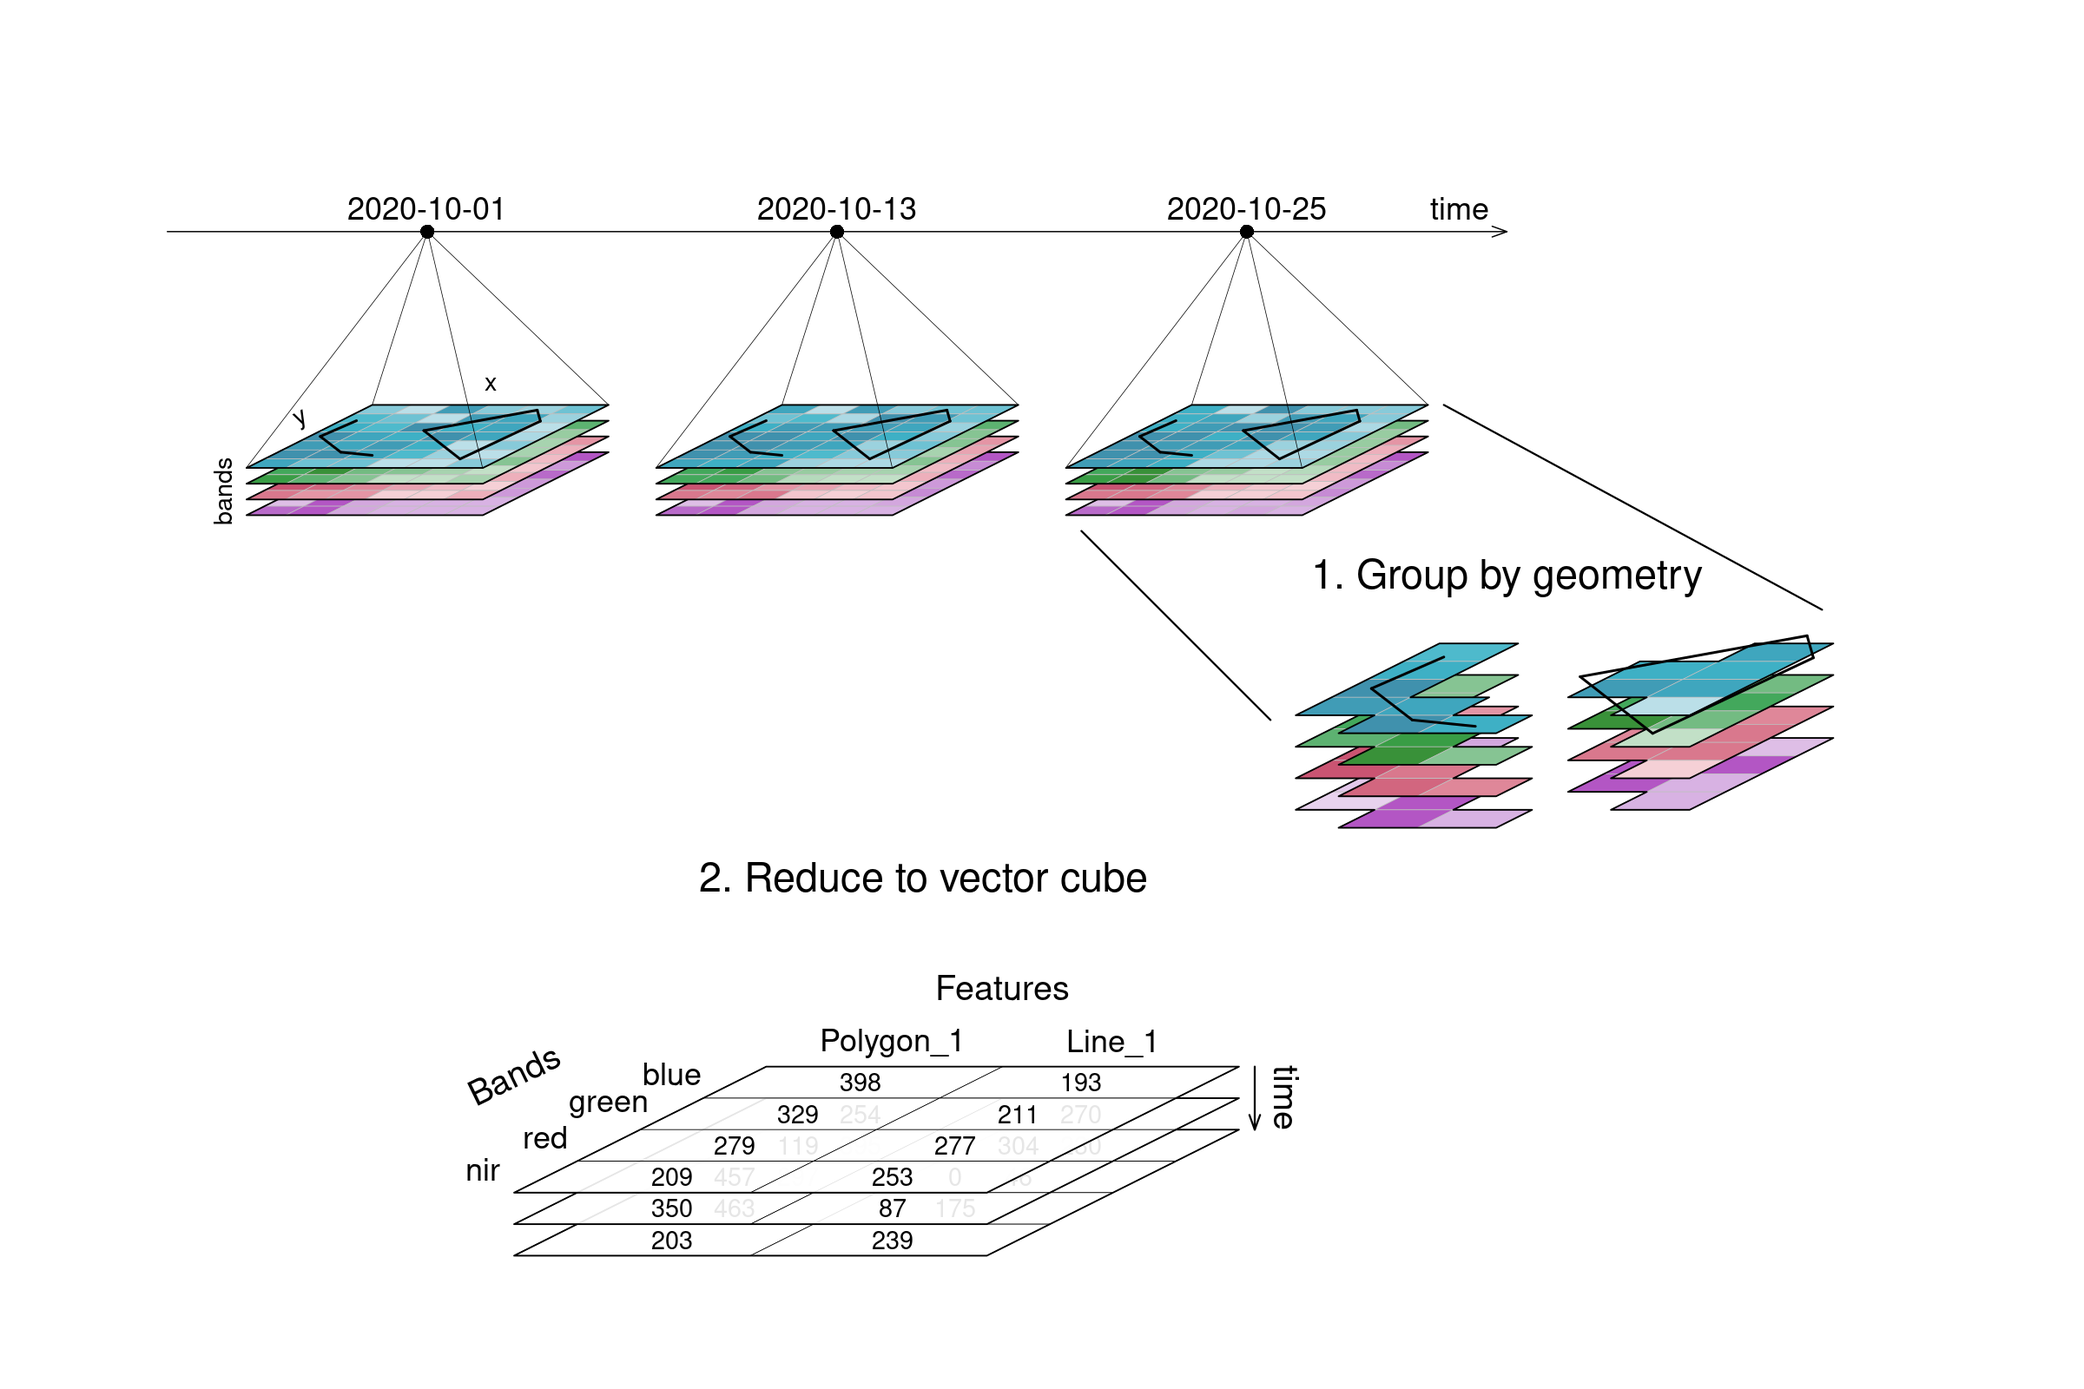
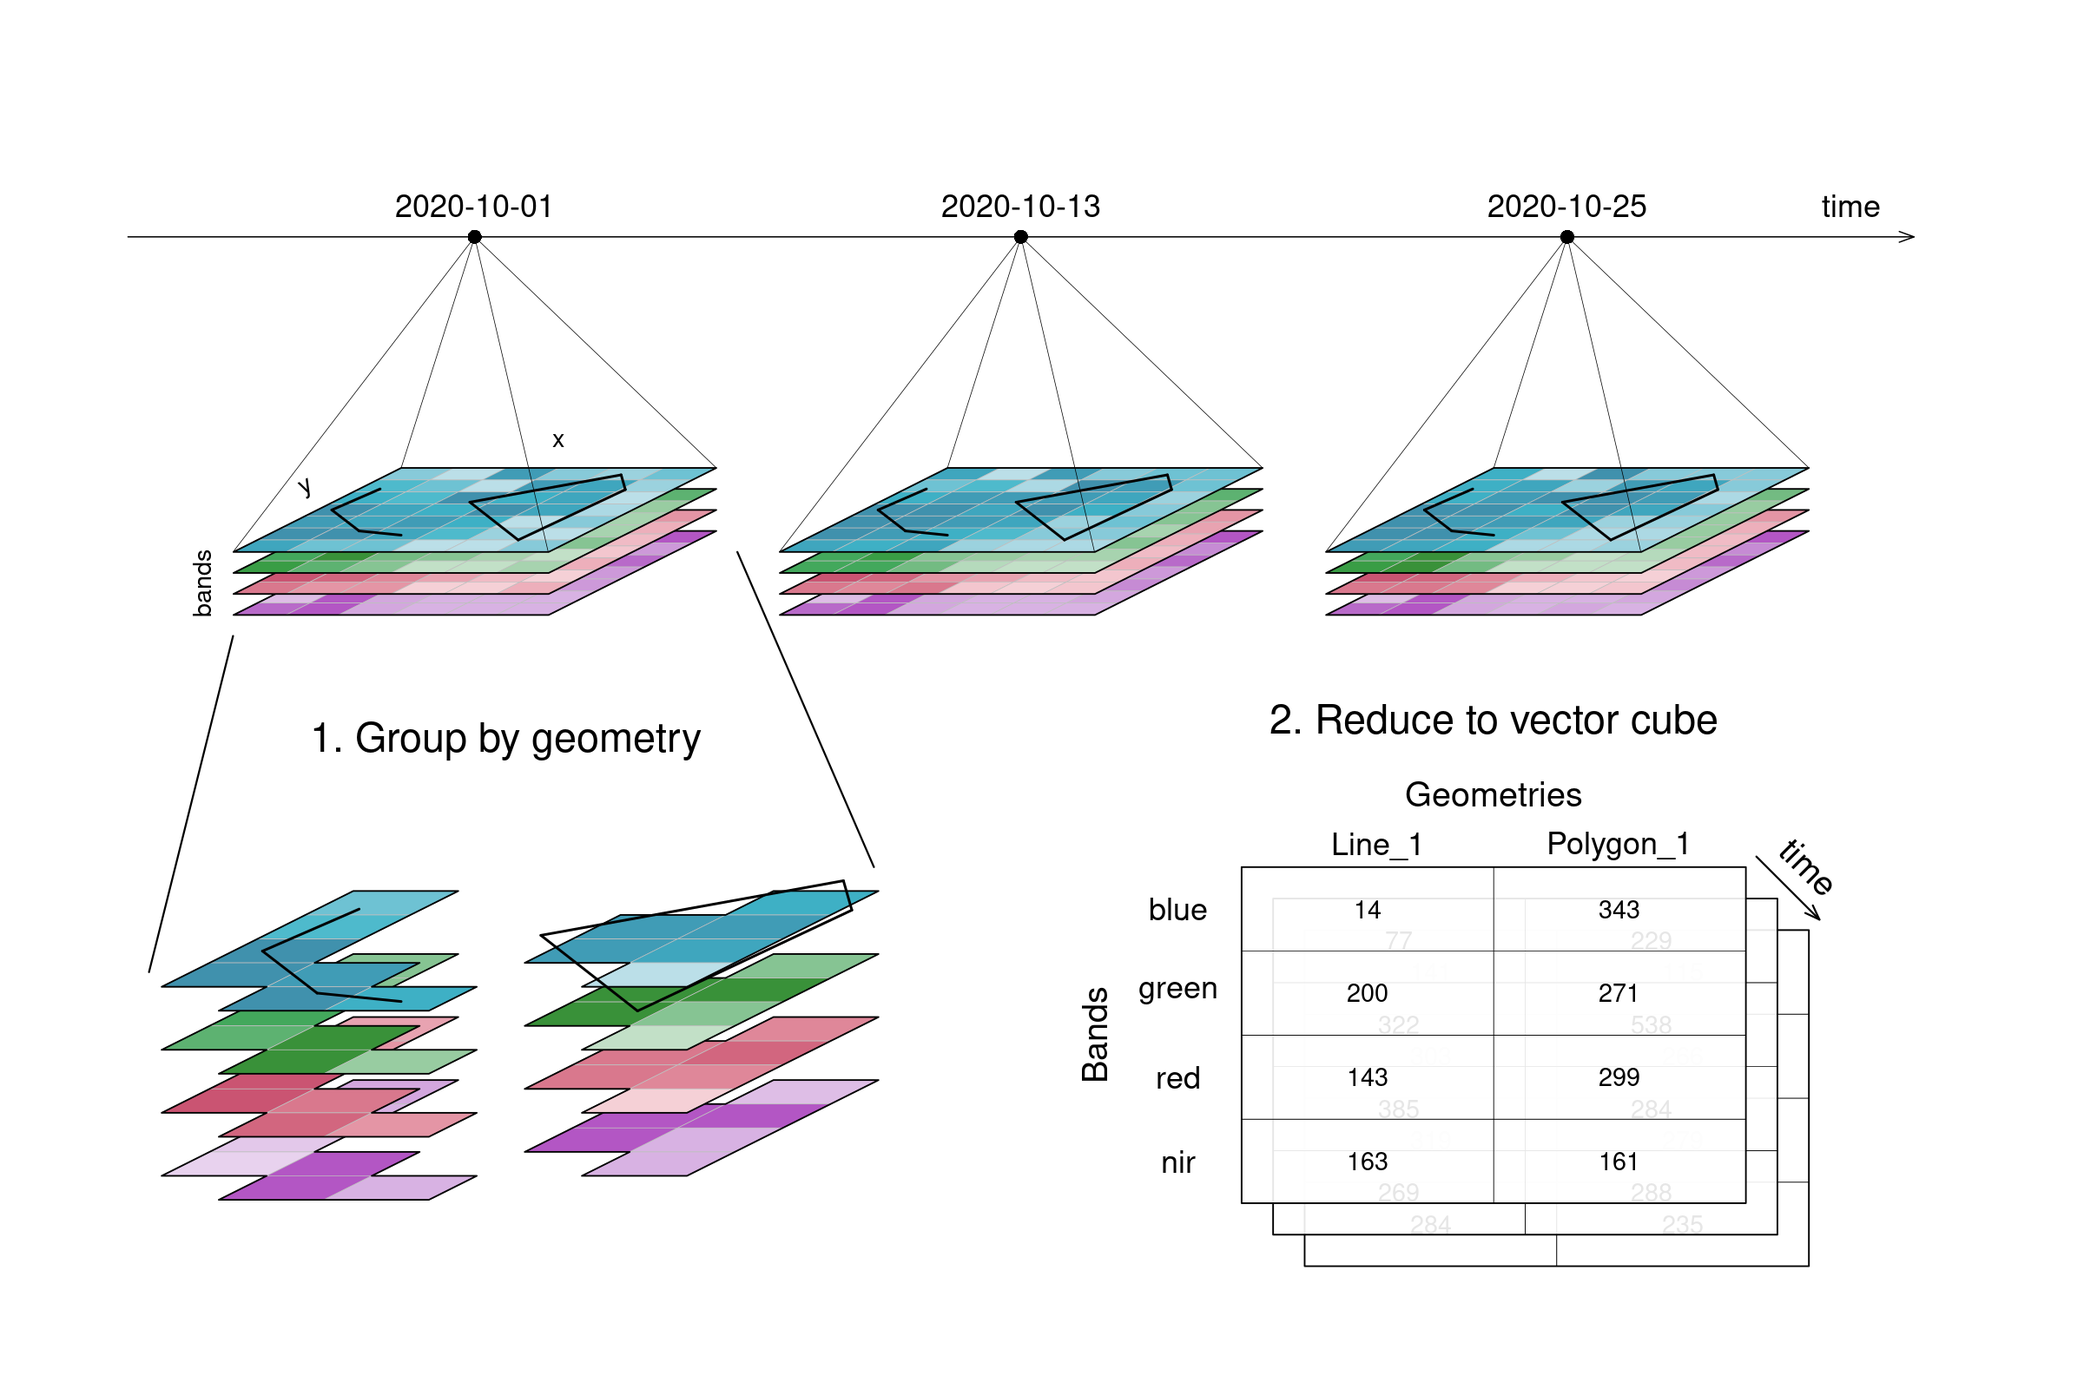
review, remodel agg_space

diff --git a/documentation/1.0/datacubes.md b/documentation/1.0/datacubes.md
@@ -11,24 +11,24 @@ TODOs / Questions:
 
 ## What are Datacubes?
 
-Datacubes are multidimensional arrays with one or more spatial or temporal dimension(s). Most importantly, they are the way in which data is represented in OpenEO. They provide a nice and tidy interface for spatiotemproal data and the operations you may want to execute on it. As they are arrays, it might be easiest to look at raster data as an example, even though datacubes can hold vector data as well: Then, the dimensions would have a different meaning. Instead of `x` and `y` they could e.g. represent stations with a number of sensors. Our example data however consists of a 6x7 raster with 4 bands [`red`, `green`, `blue`, `near-infrared`] and 3 time steps [`2020-10-01`, `2020-10-13`, `2020-10-25`], displayed here in an orderly, time series like manner:
+Datacubes are multidimensional arrays with one or more spatial or temporal dimension(s). They are the way in which data is represented in OpenEO. They provide a nice and tidy interface for spatiotemproal data and the operations you may want to execute on it. As they are arrays, it might be easiest to look at raster data as an example, even though datacubes can hold vector data as well: In that case, the x and y dimensions typical for raster data would be exchanged for other dimensions, like stations with a number of sensors. Our example data however consists of a 6x7 raster with 4 bands [`blue`, `green`, `red`, `near-infrared`] and 3 timesteps [`2020-10-01`, `2020-10-13`, `2020-10-25`], displayed here in an orderly, time series like manner:
 
 <figure>
     <img src="./datacubes/dc_timeseries.png" alt="Datacube timeseries">
-    <figcaption>Example datacube</figcaption>
+    <figcaption>An example datacube with x, y, bands and time dimension.</figcaption>
 </figure>
 
-It is important to understand that datacubes are designed to make things easier for us, and are not literally a cube, meaning that the above plot is just as good a way to represent the dimensionality than any other. That is why we can display the data how we want and play around a bit with the dimensions, including this view:
+It is important to understand that datacubes are designed to make things easier for us, and are not literally a cube, meaning that the above plot is just as good a way to represent the dimensionality than any other. That is why we can display the dimensions how we want and switch them around a bit, including the view below. Here, dimension labels are shown instead of names:
 
 <figure>
     <img src="./datacubes/dc_flat.png" alt="Datacube timeseries">
-    <figcaption>This is the 'raw' data collection that is included in our example datacube. The grayscale values of the imagery are colored for understandability.</figcaption>
+    <figcaption>This is the 'raw' data collection that is our example datacube. The grayscale images are colored for understandability.</figcaption>
 </figure>
 
 ## Dimensions
-A dimension refers to a certain extent of a datacube. There are the obvious spatial dimensions x and y, and also the temporal dimension t. Furthermore there is the bands dimension, extending into the realm of _what_ is contained in the datacube.
+A dimension refers to a certain extent of a datacube. There are the obvious spatial dimensions x and y, and also the temporal dimension t. Furthermore there is the bands dimension, extending into the realm of _what kind of information_ is contained in the datacube.
 
-There are multiple additional properties stored for each dimension:
+There are multiple properties stored for each dimension:
 
 * name
 * axis / number
@@ -41,7 +41,7 @@ Here is an overview of the dimensions contained in our example datacube above:
 
 | # | dimension name | dimension labels | resolution |
 |---|----------------|------------------| ---------- |
-| 1 | x              | 466380, 466580, 466780, 466980, 467180, 467380, | 10m |
+| 1 | x              | 466380, 466580, 466780, 466980, 467180, 467380 | 10m |
 | 2 | y              | 7167130, 7166930, 7166730, 7166530, 7166330, 7166130, 7165930 | 10m |
 | 3 | bands          | `blue`, `green`, `red`, `nir` | 4 bands |
 | 4 | time           | `2020-10-01`, `2020-10-13`, `2020-10-25` | 12 days |
@@ -54,87 +54,89 @@ The resolution of a dimension gives information about what interval lies between
 
 ## Functions on Datacubes
 
+In the following part, the basic processes for manipulating datacubes are introduced.
+
 ### Filter
 
 When filtering data, only the data within the filter interval is returned. That can be a time interval, coordinates or specific bands. The datacube is then smaller, according to the selected data.
 
-In the image, the example datacube can be seen in top with labeled dimansions. The filtering techniques are displayed separately below. First, the Datacube is filtered temporally, e.g. with the interval `["2020-10-15", "2020-10-27"]`. The result is a cube with only the rasters for the timestep that lies within that interval (`"2020-10-25"`) and unchanged bands and spatial dimensions. Consecutively, the original cube is filtered for a specific band `[nir]` and a specific region (TODO).
+In the image, the example datacube can be seen at the top with labeled dimensions. The filtering techniques are displayed separately below. First, the Datacube is filtered temporally with the interval `["2020-10-15", "2020-10-27"]`. The result is a cube with only the rasters for the timestep that lies within that interval (`"2020-10-25"`) and unchanged bands and spatial dimensions. Consecutively, the original cube is filtered for a specific band `[nir]` and a specific region (`[Polygon(...)]`).
 
 <figure>
     <img src="./datacubes/dc_filter.png" alt="Datacube timeseries">
-    <figcaption>Filtering a sample datacube. The input datacube carries all dimension labels.</figcaption>
+    <figcaption>Filtering the sample datacube. It is displayed at the top with dimensions labels. Filtered results are shown at the bottom.</figcaption>
 </figure>
 
 ### Apply
 
-The `apply*()` functions employs a process on the datacube, calculating new pixel values for each pixel, based on n other pixels.
+The `apply*()` functions employs a process on the datacube that calculates new pixel values for each pixel, based on `n` other pixels.
 
-For the case n = 1 this is called an unary function and means that only the pixel itself is considered when calculating the new pixel value. A prominent example is the `abs()` function, calculating the absolute value of the input pixel value. 
+For the case `n = 1` this is called an unary function and means that only the pixel itself is considered when calculating the new pixel value. A prominent example is the `abs()` function, calculating the absolute value of the input pixel value. 
 
 <figure>
     <img src="./datacubes/dc_apply_unary.png" alt="Datacube timeseries">
-    <figcaption>Applying a unary process. Only one band is shown for simplicity.</figcaption>
+    <figcaption>Applying an unary process. Only the pixel itself is considered for calculating the new pixel value.</figcaption>
 </figure>
 
-If n is larger than 1, the function is called n-ary. In practice, this means that the pixel neighbourhood is taken into account to calculate the new pixel value. Such nieghbourhoods can be of temporal and/or spatial nature. A temporal (e.g. smoothing) function works on a time series of the same pixel, a spatial function works on a kernel by weighting the surrounding pixels. Original dimensions and their resolutions usually remain unchanged when `apply()`-ing some process.
+If `n` is larger than 1, the function is called n-ary. In practice, this means that the pixel neighbourhood is taken into account to calculate the new pixel value. Such neighbourhoods can be of temporal and/or spatial nature. A temporal (e.g. smoothing) function works on a time series at a certain pixel location, a spatial function works on a kernel that weights the surrounding pixels. Original dimensions and their resolutions usually remain unchanged when `apply()`-ing some process.
 
 In the example below, an example weighted kernel (shown in the middle) is applied to the cube. To avoid edge effects (affecting pixels on the edge of the image with less neighbours), a padding has been added in the background.
 
 <figure>
     <img src="./datacubes/dc_apply_kernel.png" alt="Datacube timeseries">
-    <figcaption>Applying a spatial kernel. Only values for the first raster are shown as text, although the process is applied to the whole cube.</figcaption>
+    <figcaption>Applying a spatial kernel. For calculating each new pixel value, the defined weighted neighbourhood is used.</figcaption>
 </figure>
 
-Of course this also works for temporal neighbourhoods (time series), considering neighbours before and after a pixel. To be able to show the effect, two time steps were added in this example figure. A moving average of window size 3 is then applied. This process can be followed from left to right on the highlighted pixel time series. No padding was added which is why we observe edge effects (NA values are calculated for t<sub>1</sub> and t<sub>5</sub>, because they didn't have enough input time steps).
+Of course this also works for temporal neighbourhoods (time series), considering neighbours before and after a pixel. To be able to show the effect, two timesteps were added in this example figure. A moving average of window size 3 is then applied. While this process is applied to all pixels in the cube, a specific pixel time series is highlighted (green line) and processed step-by-step. No padding was added which is why we observe edge effects (NA values are returned for t<sub>1</sub> and t<sub>5</sub>, because their temporal neighbourhood is missing input timesteps).
 
 <figure>
     <img src="./datacubes/dc_apply_ts.png" alt="Datacube timeseries">
-    <figcaption>Applying a moving average (temporal smoothing). No padding is used.</figcaption>
+    <figcaption>Applying a moving average (temporal smoothing) by avegraging the direct temporal neighbourhoods of pixels. No padding is used, which leads to edge effects.</figcaption>
 </figure>
 
 ### Resample
 
 In a resampling process, the _layout_ of a certain dimension is changed into another _layout_, most likely also changing the resolution of that dimension. This is done by mapping values of the source (old) datacube to the new layout of the target (new) datacube. During that process, resolutions can be _upscaled_ or _downscaled_ (or ~_sampled_), depending on whether they have a finer or a coarser spacing afterwards. During that process, a function is needed to translate the existing data into the new resolution. A prominent example is to reproject a datacube into the coordinate reference system of another datacube, for example in order to merge the two cubes.
 
-The first figure gives an overview of temporal resampling. How exactly the input time steps are rescaled to the output time steps, depend on the resampling function.
+The first figure gives an overview of temporal resampling. How exactly the input timesteps are rescaled to the output timesteps depends on the resampling function.
 
 <figure>
     <img src="./datacubes/dc_resample_time.png" alt="Datacube timeseries">
-    <figcaption>Temporal resampling</figcaption>
+    <figcaption>Temporal downscaling is seen on the left, upscaling on the right. The temporal layout that the cubes are resampled to is displayed in the middle.</figcaption>
 </figure>
 
-The second figure displays spatial resampling. Common resampling methods are "near" and "bilinear". Observe how in the upsampling process, the output has not gained in information value. The resulting grid still carries the same pixel information, but in higher spatial resolution.
+The second figure displays spatial resampling. Common resampling methods are "near" and "bilinear". Observe how in the upsampling process, the output datacube has not gained in information value. The resulting grid still carries the same pixel information, but in higher spatial resolution.
 
 <figure>
     <img src="./datacubes/dc_resample_space.png" alt="Datacube timeseries">
-    <figcaption>Spatial resampling</figcaption>
+    <figcaption>Spatial resampling. The geometry which the input cube is resampled to is displayed in the middle. The output cube then contains the same information, but in the resampled spatial layout.</figcaption>
 </figure>
 
 ### Reduce
 
-The `reduce_dimension*()` process _collapses_ a whole dimension of the datacube. It does so by using some sort of _reducer_, which is a function that calculates a single result from an amount of values, as e.g. `mean()`, `min()` and `max()` are. For example can we reduce the time dimension of a time series by calculating the mean value out of all time steps for each pixel. We are left with a cube that has no time dimension, because all values are compressed into a single mean value. The same goes for e.g. the spatial dimensions: If we calculate the mean along the `x` and `y` dimensions, we are left without any spatial dimensions, but a mean value for each instance that previously was a raster. In the image below, the dimensions that are reduced are crossed out in the result (TODO: make explicit for space?).
+The `reduce_dimension*()` process _collapses_ a whole dimension of the datacube. It does so by using some sort of **reducer**, which is a function that calculates a single result from an amount of values, as e.g. `mean()`, `min()` and `max()` are. For example can we reduce the time dimension of a time series by calculating the mean value out of all timesteps for each pixel. We are left with a cube that has no time dimension, because all values are compressed into a single mean value. The same goes for e.g. the spatial dimensions: If we calculate the mean along the x and y dimensions, we are left without any spatial dimensions, but a mean value for each instance that previously was a raster is returned. In the image below, the dimensions that are reduced are crossed out in the result.
 
 Think of it as a waste press that does math instead of using brute force. Given a representation of our example data cube, let's see how it is affected.
 
 <figure>
     <img src="./datacubes/dc_reduce.png" alt="Datacube timeseries">
-    <figcaption>Overview of reducing a sample datacube. Dimensions that are reduced are crossed out in the result images</figcaption>
+    <figcaption>Overview of reducing the sample datacube. Dimensions that are reduced are crossed out in the result images. Their information value has been compressed by a reducer function.</figcaption>
 </figure>
 
 ### Aggregate
 
 An aggregation of a datacube can be thought of as a grouped reduce. That means it consists of two steps: 
 
-1. Grouping via a grouping variable, e.g. spatial geometries or temporal intervals
+1. Grouping via a grouping variable, i.e. spatial geometries or temporal intervals
 2. Reducing these groups along the grouped dimension with a certain reducer function, e.g. calculating the mean pixel value per polygon or the maximum pixel values per month
 
 While the layout of the reduced dimension is changed, other dimensions keep their resolution and geometry.
 
-A temporal aggregation is similar to a downsampling process, as it can be seen in the according image above. Intervals for grouping can either be set manually, or periods can be chosen: monthly, yearly, etc.. All timesteps in an interval are then collapsed via a reducer function (mean, max, etc.) and assigned to the new labels given.
+A temporal aggregation is similar to the downsampling process, as it can be seen in the according image above. Intervals for grouping can either be set manually, or periods can be chosen: monthly, yearly, etc. All timesteps in an interval are then collapsed via a reducer function (mean, max, etc.) and assigned to the given new labels.
 
-A spatial agregation works in a similar manner. Polygons, lines and points can be selected for grouping. The spatial dimension is then reduced by a given process and a vector cube is returned. The vector cube then has dimensions containing features, attributes and time.
+A spatial agregation works in a similar manner. Polygons, lines and points can be selected for grouping. The spatial dimension is then reduced by a given process and thus, a vector cube is returned. The vector cube then has dimensions containing features, attributes and time. In the graphic below, the grouping is only shown for the first timestep. 
 
 <figure>
     <img src="./datacubes/dc_aggregate_space.png" alt="Datacube timeseries">
-    <figcaption>Aggregate spatial</figcaption>
+    <figcaption>When aggregating spatially, pixels are grouped (cut out) based on geometries, and then reduced with a reducer function. A vector datacube is returned (as shown with dimensions names and labels).</figcaption>
 </figure>
